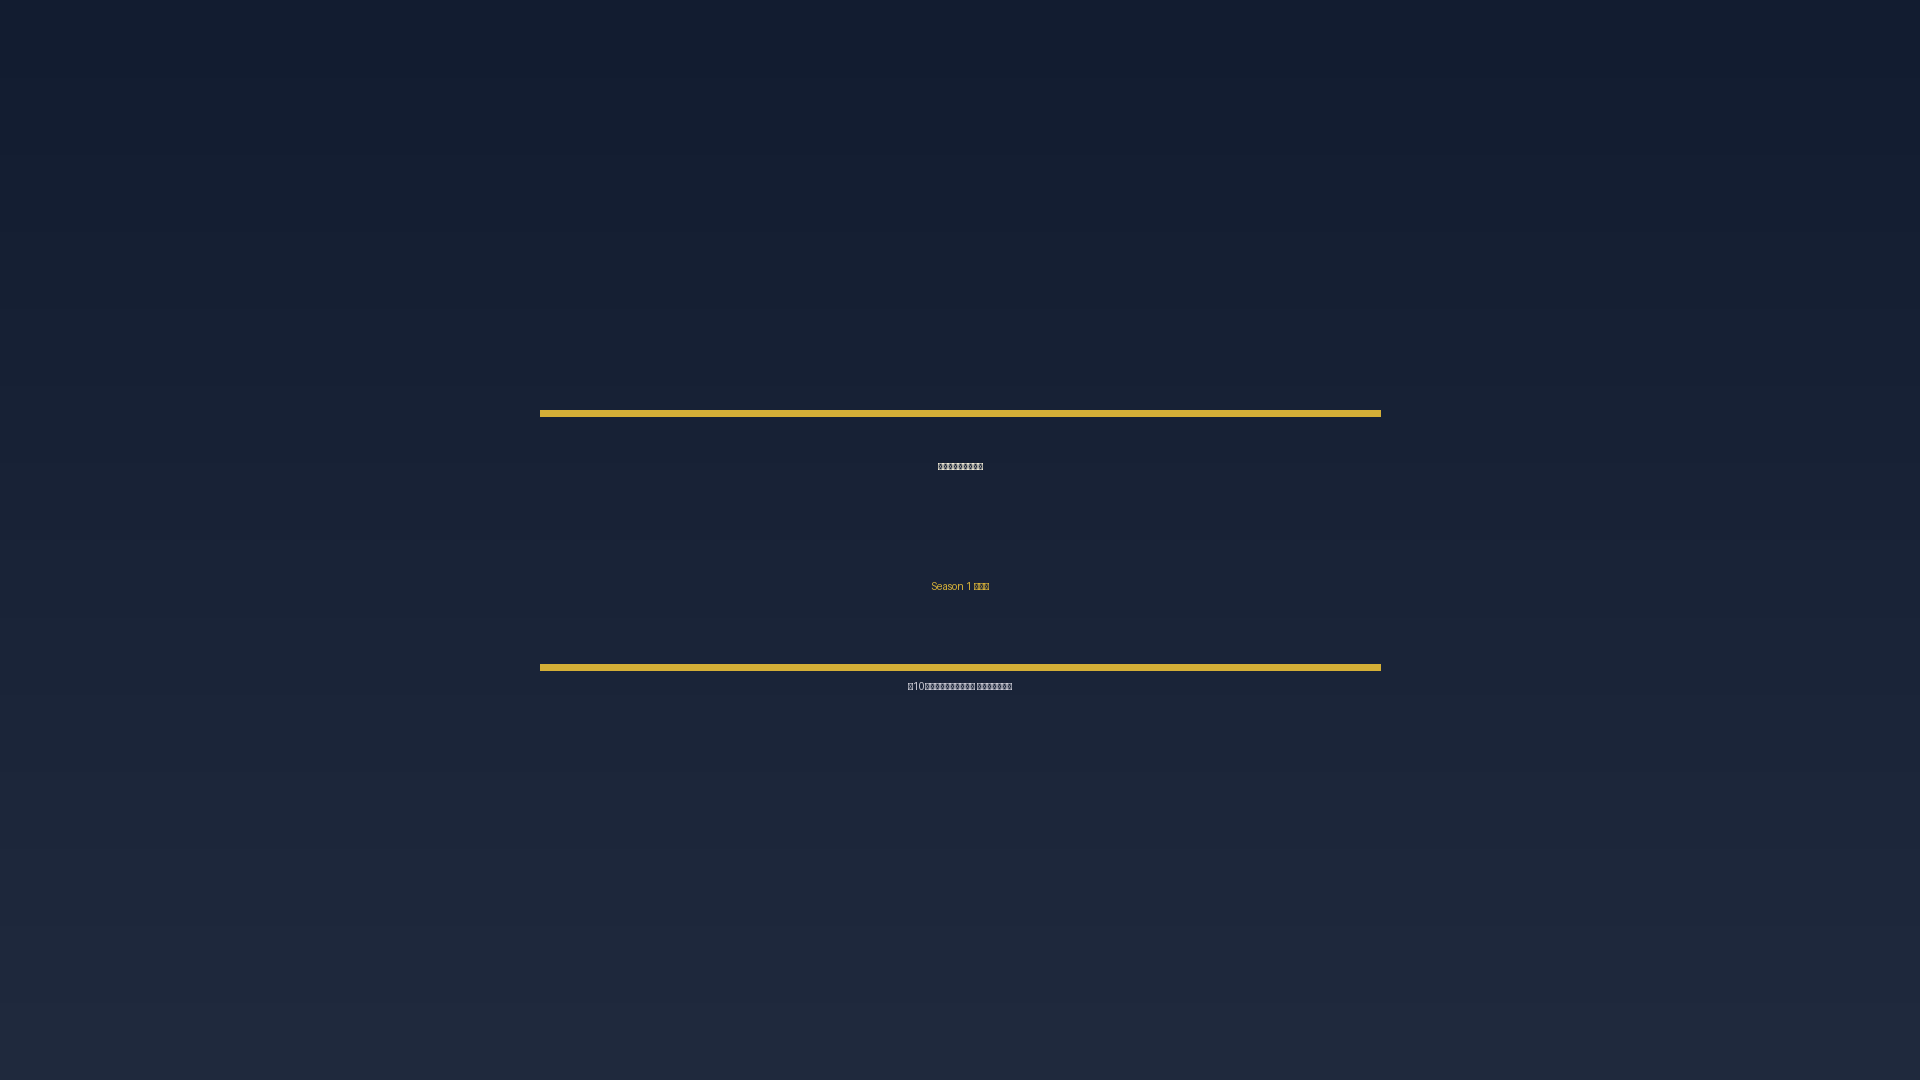
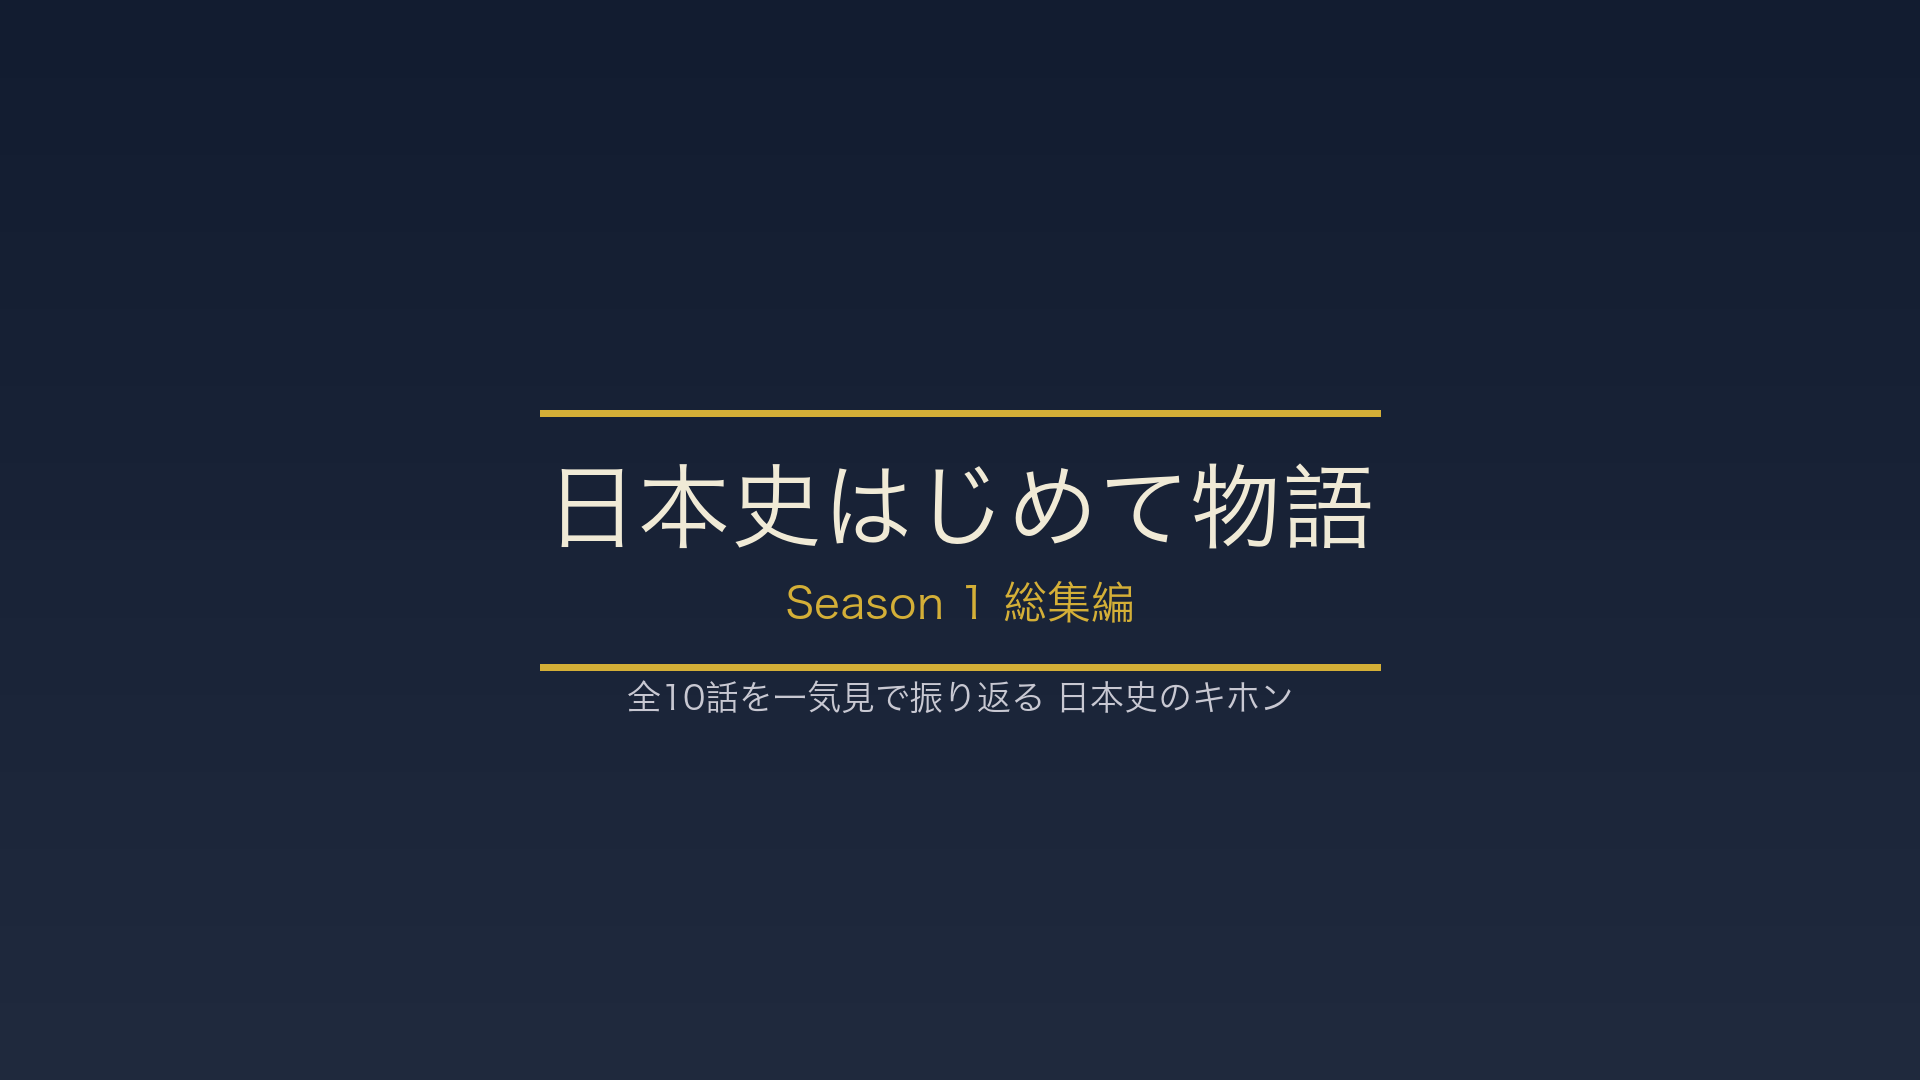
editor: T7 P1修正 — タイトルカード日本語フォント修正+BG追加 / Shortsテロップ fit-to-width

Changed region(s): [[0.2812, 0.4278, 0.7188, 0.5806], [0.3125, 0.6111, 0.6562, 0.6722]]

diff --git a/tools/editor/compile_compilation.py b/tools/editor/compile_compilation.py
@@ -55,17 +55,32 @@ def make_title_card(out_png: Path, out_mp4: Path, sec: float) -> None:
     d.rectangle([(W // 2 - 420, H // 2 + 124), (W // 2 + 420, H // 2 + 130)],
                 fill=(212, 175, 55))
 
-    font_paths = [
-        "/System/Library/Fonts/ Hiragino Mincho ProN.ttc",
-        "/System/Library/Fonts/Hiragino Mincho ProN.ttc",
-        "/System/Library/Fonts/Supplemental/Hiragino Mincho ProN.ttc",
-    ]
-    title_font = subtitle_font = None
+    # 日本語フォント探索 (tofu 防止: 見つかったフォントで日本語が
+    # 実際に描けることを画素分散で検証してから採用)
+    import glob
+    from PIL import Image as _Img
+    font_paths = (
+        glob.glob("/System/Library/Fonts/Hiragino*.ttc")
+        + glob.glob("/System/Library/Fonts/Supplemental/Songti*.ttc")
+        + glob.glob("/System/Library/Fonts/NotoSansCJK*.ttc")
+        + glob.glob("/System/Library/Fonts/Supplemental/NotoSansCJK*.ttc")
+        + glob.glob(str(Path.home() / "Library/Fonts/*JP*.ttf"))
+    )
+    small_font = None
     for fp in font_paths:
         try:
-            title_font = ImageFont.truetype(fp, 92)
-            subtitle_font = ImageFont.truetype(fp, 44)
-            small_font = ImageFont.truetype(fp, 34)
+            cand_title = ImageFont.truetype(fp, 92)
+            cand_sub = ImageFont.truetype(fp, 44)
+            cand_small = ImageFont.truetype(fp, 34)
+            # tofu 検証: 日本語を描いて画素が多数立つことを確認
+            probe = _Img.new("L", (300, 100), 0)
+            pd = ImageDraw.Draw(probe)
+            pd.text((10, 10), "日本史はじめて", font=cand_small, fill=255)
+            ink = sum(1 for px in probe.getdata() if px > 40)
+            if ink < 300:
+                continue  # tofu (フォントが日本語非対応)
+            title_font, subtitle_font, small_font = cand_title, cand_sub, cand_small
+            print(f"title card font: {fp} (ink={ink})")
             break
         except OSError:
             continue
@@ -87,13 +102,15 @@ def make_title_card(out_png: Path, out_mp4: Path, sec: float) -> None:
     subprocess.run([
         FFMPEG, "-y", "-loglevel", "error",
         "-loop", "1", "-framerate", "30", "-t", f"{sec:.3f}", "-i", str(out_png),
-        "-f", "lavfi", "-t", f"{sec:.3f}", "-i", "anullsrc=channel_layout=stereo:sample_rate=48000",
+        "-i", str(REPO / "audio/ep01/bgm.wav"),
         "-c:v", "libx264", "-preset", "veryfast", "-b:v", "35M", "-minrate", "35M",
         "-maxrate", "35M", "-bufsize", "4400k",
         "-x264-params", "nal-hrd=cbr:filler=1",
         "-pix_fmt", "yuv420p", "-r", "30", "-fps_mode", "cfr",
         "-colorspace", "bt709", "-color_primaries", "bt709", "-color_trc", "bt709",
         "-color_range", "tv",
+        "-t", f"{sec:.3f}",
+        "-af", "afade=t=out:st=2.3:d=0.7,volume=0.7",
         "-c:a", "aac", "-b:a", "192k", "-shortest",
         "-movflags", "+faststart", str(out_mp4),
     ], check=True)

diff --git a/tools/editor/make_shorts.py b/tools/editor/make_shorts.py
@@ -76,11 +76,38 @@ Format: Layer, Start, End, Style, Name, MarginL, MarginR, MarginV, Effect, Text
 """
     events = []
 
+    def _fit(text: str) -> str:
+        """fit-to-width: 1080-128px=952px に収まるよう改行/フォント縮小。
+        JP 1字 ≈ fontsize。fs56 で 15字/行 -> はみ出す場合は fs44 で 20字/行
+        -> さらに fs36 で 26字/行 (最大2行)。句読点・区切りで折る。"""
+        for per_line, fs_tag in ((15, ""), (20, "{\\fs44}"), (26, "{\\fs36}")):
+            lines, buf = [], ""
+            for ch in text:
+                buf += ch
+                if len(buf) >= per_line and ch in "、。？!?・= ":
+                    lines.append(buf)
+                    buf = ""
+            if buf:
+                lines.append(buf)
+            if len(lines) <= 2:
+                return fs_tag + "\\N".join(lines)
+        per_line, fs_tag = 26, "{\\fs36}"
+        lines, buf = [], ""
+        for ch in text:
+            buf += ch
+            if len(buf) >= per_line and ch in "、。？!?・= ":
+                lines.append(buf)
+                buf = ""
+        if buf:
+            lines.append(buf)
+        return fs_tag + "\\N".join(lines[:2])
+
     def add(st: float, en: float, text: str, zone: str, mv: int):
         # zone: "top"=上部空きゾーン (y250-600), "bottom"=下部空きゾーン
         # (y1300-1800) — 16:9 映像帯 (y656-1264) の外側に配置
         an = "8" if zone == "top" else "2"
-        safe = text.replace("{", "（").replace("}", "）").replace("\n", "\\N")
+        safe = text.replace("{", "（").replace("}", "）")
+        safe = _fit(safe)
         events.append(f"Dialogue: 0,{_ass_time(st)},{_ass_time(en)},Telop,,"
                       f"0,0,{mv},,{{\\an{an}}}{safe}")
 
@@ -90,7 +117,10 @@ Format: Layer, Start, End, Style, Name, MarginL, MarginR, MarginV, Effect, Text
     add(0.9, min(4.4, dur), f"問題: {quiz['q']}", "top", 270)
     chs = [str(c) for c in quiz.get("choices", [])][:3]
     marks = "ア イ ウ".split()
-    add(4.4, min(9.4, dur), "\n".join(f"{marks[i]} {c}" for i, c in enumerate(chs)), "top", 250)
+    chs_text = "\n".join(f"{marks[i]} {c}" for i, c in enumerate(chs))
+    an_top = "8"
+    events.append(f"Dialogue: 0,{_ass_time(4.4)},{_ass_time(min(9.4, dur))},Telop,,"
+                  f"0,0,250,,{{\\an{an_top}}}{chs_text.replace(chr(10), chr(92) + 'N')}")
     ans = int(quiz.get("answer", 0))
     ans_mark = marks[ans] if 0 <= ans < len(marks) else "ア"
     add(9.4, min(12.4, dur), f"正解は…{ans_mark}!", "bottom", 430)
